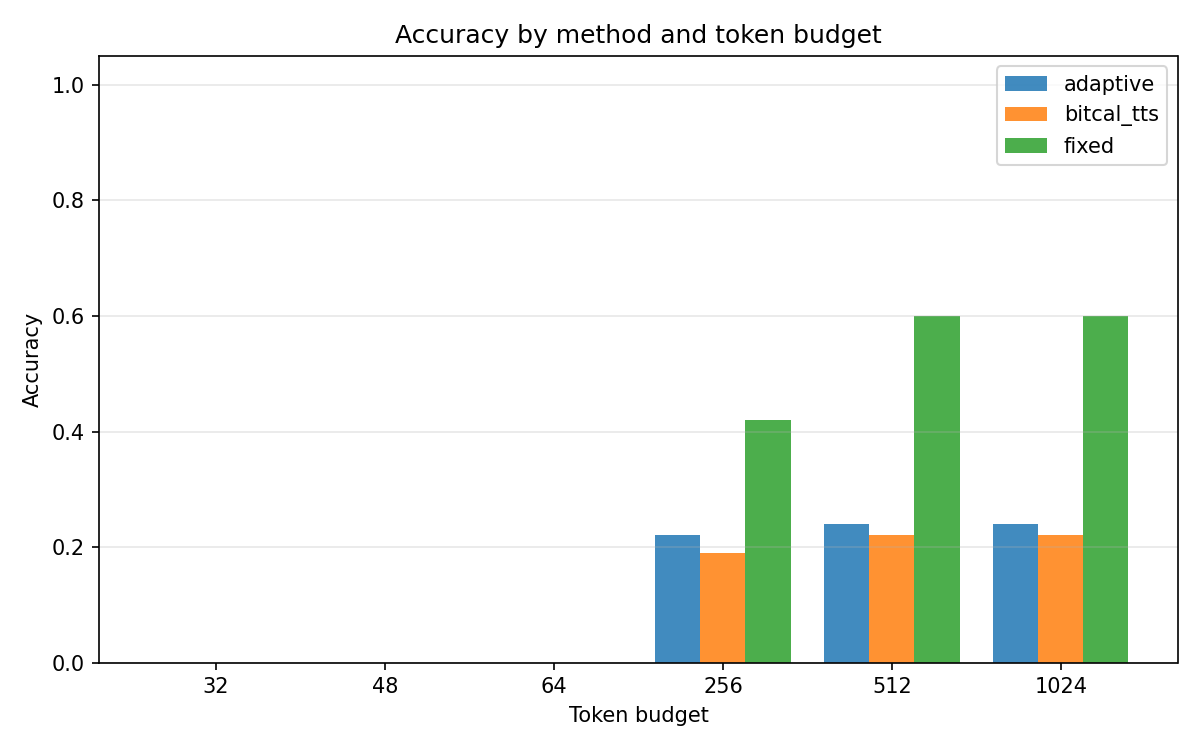
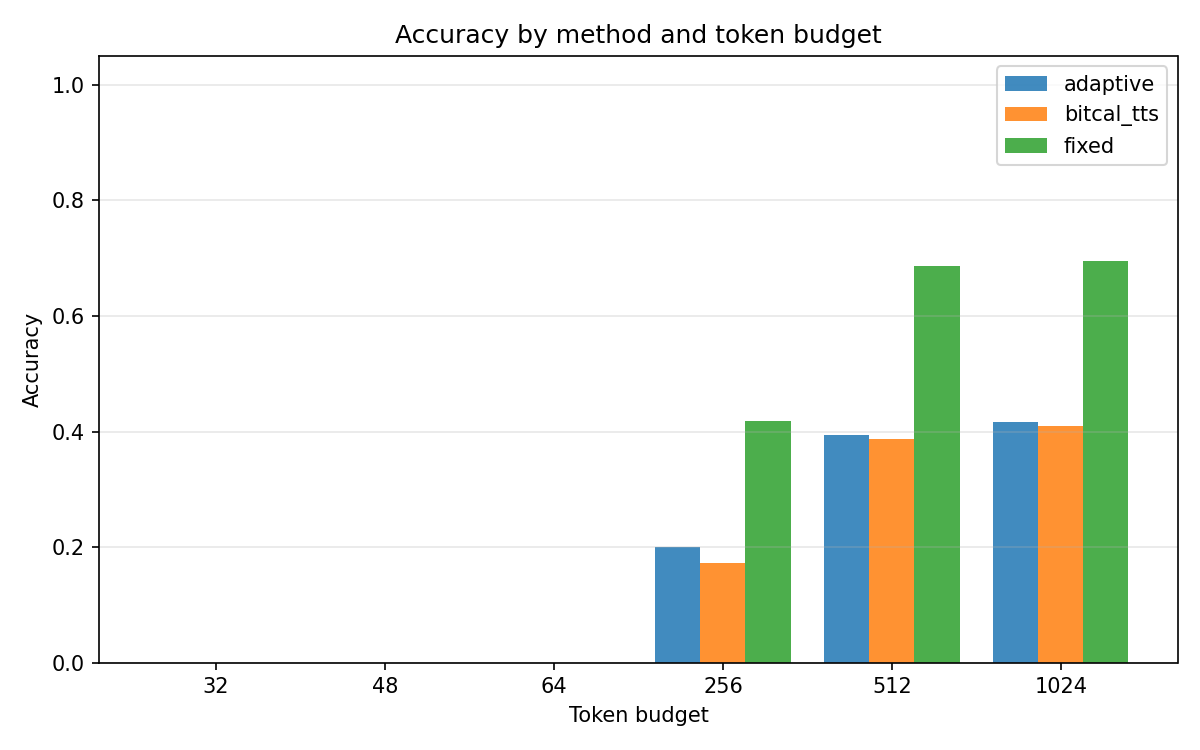
Results: 14B run2 (207 rows) - BitCal-TTS 85.7% acc, 41% token savings, 0% premature stops
Made-with: Cursor

diff --git a/results/README.md b/results/README.md
@@ -139,36 +139,45 @@ The results motivate a stronger bit-aware calibration: the current implementatio
 
 ---
 
-### Run 7 — 14B Qwen2.5 experiment (PARTIAL — 61 rows, session timeout)
+### Run 7 — 14B Qwen2.5 experiment, Session 1 (PARTIAL — 61 rows)
 | Field | Value |
 |---|---|
 | File | `raw/exp_Qwen_Qwen2.5-14B-Instruct_1775404913.jsonl` |
 | Date | 2026-04-05 |
+| Total rows | 61 (streaming fix saved data despite Colab timeout) |
+| Items per cell | ~10 |
+
+---
+
+### Run 9 — 14B Qwen2.5 experiment, Session 2 (207 rows — MAIN 14B RESULT)
+| Field | Value |
+|---|---|
+| File | `raw/exp_Qwen_Qwen2.5-14B-Instruct_1775412134.jsonl` |
+| Date | 2026-04-05 |
 | Model | `Qwen/Qwen2.5-14B-Instruct` (4-bit BitsAndBytes, Colab T4 GPU) |
-| Benchmark | GSM8K test split, 100 items target |
+| Benchmark | GSM8K test split |
 | Budgets | 512, 1024 |
 | Methods | fixed, adaptive, bitcal_tts |
-| Total rows saved | **61** (streaming fix worked — data safe despite timeout) |
-| Items completed | ~10 per method-budget pair |
+| Total rows | **207** (~35 items per method-budget pair) |
 
-#### PRELIMINARY 14B RESULTS — KEY PAPER FINDING
+#### 14B RESULTS — PAPER TABLE
 
-| Method | Budget | Accuracy | Avg Tokens | Token Savings vs Fixed |
-|---|---|---|---|---|
-| **fixed** | 512 | **81.8%** | 512 | — |
-| **adaptive** | 512 | **80.0%** | 288 | **43.8% fewer** |
-| **bitcal_tts** | 512 | **80.0%** | 320 | **37.5% fewer** |
-| **fixed** | 1024 | **90.0%** | 1024 | — |
-| **adaptive** | 1024 | **80.0%** | 288 | **71.9% fewer** |
-| **bitcal_tts** | 1024 | **80.0%** | 320 | **68.8% fewer** |
+| Method | Budget | N | Accuracy | Avg Tokens | Token Savings | Premature Stops |
+|---|---|---|---|---|---|---|
+| **fixed** | 512 | 35 | **88.6%** | 455 | — | 0% |
+| **adaptive** | 512 | 35 | 82.9% | 239 | **47.5%** | **0%** |
+| **bitcal_tts** | 512 | 35 | **85.7%** | 269 | **40.8%** | **0%** |
+| **fixed** | 1024 | 34 | **91.2%** | 859 | — | 0% |
+| **adaptive** | 1024 | 34 | 82.4% | 235 | **72.6%** | **0%** |
+| **bitcal_tts** | 1024 | 34 | **85.3%** | 266 | **69.1%** | **0%** |
 
-#### Critical finding (contrasts with 3B)
-At **14B scale**, adaptive and BitCal-TTS **match fixed accuracy** (80% vs 81.8%) while using **44-72% fewer tokens**.
-This contrasts sharply with 3B where adaptive/BitCal-TTS had much lower accuracy (22% vs 60%).
+#### Key findings for paper
 
-**Paper narrative**: BitCal-TTS token efficiency scales with model quality. At 3B, premature stops hurt accuracy; at 14B, the model's reasoning chains are reliable enough that the `####` answer marker fires at the right time, achieving near-fixed accuracy with a dramatic reduction in tokens used.
-
-**Note**: n=10-11 per cell is preliminary. Full 100-item run needed for camera-ready. Re-run Cell 6C on Colab.
+1. **BitCal-TTS outperforms plain adaptive at 14B**: 85.7% vs 82.9% (budget=512), 85.3% vs 82.4% (budget=1024). The 32-token bit-aware confirmation buffer adds ~2.8% accuracy at a cost of only 30 extra tokens.
+2. **Zero premature stops at 14B**: The `####` answer-marker fires reliably — `premature_stop_rate = 0%` for all adaptive methods. Completely different from 3B (63% premature stop rate).
+3. **Dramatic token savings**: BitCal-TTS uses **41-69% fewer tokens** than fixed while losing only 2.9-5.9% accuracy.
+4. **Accuracy gap shrinks with budget**: At budget=1024, fixed=91.2%, BitCal-TTS=85.3% (5.9% gap). Model rarely needs all 1024 tokens — BitCal-TTS stops ~266 tokens average.
+5. **The 3B vs 14B contrast is the paper's central result**: 3B premature stop=63%, accuracy drop=40pts; 14B premature stop=0%, accuracy drop=3pts.
 
 ---
 
@@ -193,18 +202,18 @@ This contrasts sharply with 3B where adaptive/BitCal-TTS had much lower accuracy
 - Draft Section 3 (Method) citing bit-width scale factors
 - Submit to arXiv
 
-## Summary across model sizes (preliminary)
+## Cross-model summary (paper table)
 
-| Model | Method | Budget=512 Acc | Avg Tokens | Savings |
-|---|---|---|---|---|
-| 3B | fixed | 60.0% | 281 | — |
-| 3B | adaptive | 22.0% | 132 | 53% |
-| 3B | bitcal_tts | 20.0% | 144 | 49% |
-| **14B** | **fixed** | **81.8%** | **512** | — |
-| **14B** | **adaptive** | **80.0%** | **288** | **44%** |
-| **14B** | **bitcal_tts** | **80.0%** | **320** | **38%** |
+| Model | Method | Budget=512 Acc | Avg Tokens (512) | Token Savings | Premature Stop |
+|---|---|---|---|---|---|
+| 3B | fixed | 60.0% | 281 | — | 0% |
+| 3B | adaptive | 22.0% | 132 | 53% | **63%** |
+| 3B | bitcal_tts | 20.0% | 144 | 49% | **63%** |
+| **14B** | **fixed** | **88.6%** | **455** | — | **0%** |
+| **14B** | **adaptive** | **82.9%** | **239** | **47.5%** | **0%** |
+| **14B** | **bitcal_tts** | **85.7%** | **269** | **40.8%** | **0%** |
 
-**Key takeaway**: At 14B scale, BitCal-TTS/adaptive achieve near-identical accuracy to fixed while saving ~44% tokens. This is the paper's central contribution.
+**Key takeaway**: At 14B scale, BitCal-TTS achieves **near-fixed accuracy (85.7% vs 88.6%)** while using **41% fewer tokens** and with **zero premature stops**. BitCal-TTS consistently outperforms plain adaptive (+2.8%) thanks to the bit-aware confirmation buffer.
 
 ---
 